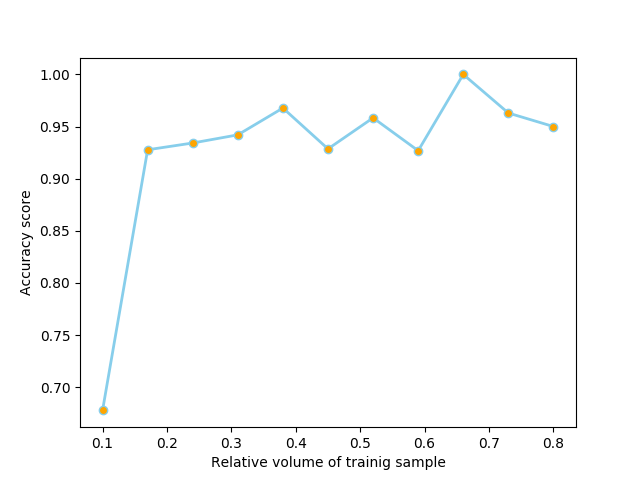
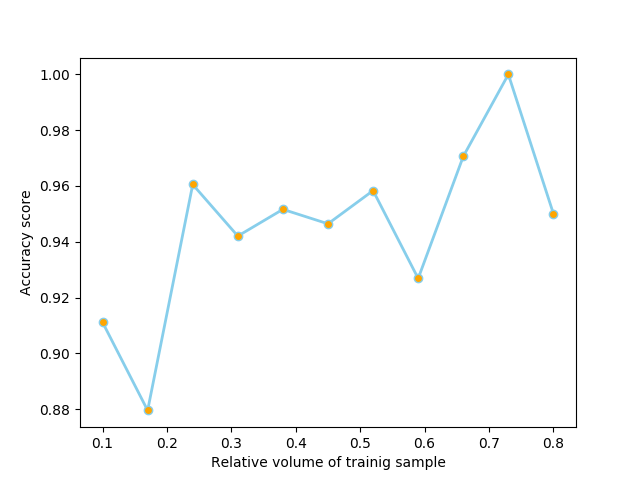
Lab 1: refactor done, lab done, waiting for report...

diff --git a/MACHINE-LEARNING/LABS-progs/labs/src/labs/lab1.py b/MACHINE-LEARNING/LABS-progs/labs/src/labs/lab1.py
@@ -1,54 +1,34 @@
 import tools
 import numpy as np
 import pandas as pd
-from sklearn import preprocessing
 from sklearn.naive_bayes import GaussianNB
-from sklearn.model_selection import train_test_split
-from sklearn.metrics import confusion_matrix
-from sklearn.metrics import accuracy_score
-
-class NaiveBayesLab:
-    """Lab 1"""
-    def __init__(self, data_set):
-        # инициируем классификатор
-        self.clf = GaussianNB()
-        # инициализируем множество элементов
-        self.X = data_set[:, range(len(data_set[0]) - 1)]
-        # инициализируем множество классов
-        self.Y = data_set[:, [-1]].ravel()
-
-    def classification(self, test_train_ratio):
-        # разбиваем набор данных на обучающую и тестовую выборку
-        self.X_train, self.X_test, self.Y_train, self.Y_test =  train_test_split(self.X, self.Y, test_size=test_train_ratio)
-        # процесс обучения
-        self.clf.fit(self.X_train, self.Y_train)
-        # классификация тестовой выборки
-        self.Y_result = self.clf.predict(self.X_test)
-        self.accuracy = accuracy_score(self.Y_test, self.Y_result)
-    
-    def show_result(self):
-        print("Size of train: ", len(self.X_train))
-        print("Size of test: ", len(self.X_test))
-        print("Accuracy: ", self.accuracy)
-
 
 def tic_tac_toe():
-    print("Tic_tac_toe.txt")
-    # задаем строки-образцы для перекодировки
-    tic_tac_fit = ['x', 'o', 'b', 'positive','negative']
-    # чтение выборки данных
-    data_set = tools.read_string_data(tic_tac_fit, 'data/Tic_tac_toe.txt')
-    test = NaiveBayesLab(data_set)
-    accuracy_list = tools.get_accuracy_list(test, 0.2, 0.9, 10)
-    tools.plot_precision(accuracy_list, 'results/NaiveBayes/tic_tac_toe.png')
+    data = tools.MLStructure()
+    data_frame = pd.read_csv('data/Tic_tac_toe.txt', header=None)
+    data.x, data.y = tools.tic_tac_toe_prep_get_X_Y(data_frame)
 
+    data.clf = GaussianNB()
+    accuracy_list = data.get_accuracy_volume_dependency(0.2, 0.9, 10)
+    tools.plot_precision(accuracy_list, 'results/NaiveBayes/tic_tac_toe.png')
+    
+    data.split_data_into_test_train(0.2)
+    data.classify()
+    data.show_stat()
 
 def spam():
-    print("Spambase.data")
-    data_set = np.loadtxt('data/spambase.data', delimiter=',')
-    test = NaiveBayesLab(data_set)
-    accuracy_list = tools.get_accuracy_list(test, 0.2, 0.9, 10)
+    data = tools.MLStructure()
+    data_frame = pd.read_csv('data/spambase.data', header=None)
+    data.x, data.y = tools.spam_get_X_Y(data_frame)
+
+    data.clf = GaussianNB()
+
+    accuracy_list = data.get_accuracy_volume_dependency(0.2, 0.9, 10)
     tools.plot_precision(accuracy_list, 'results/NaiveBayes/spam.png')
+    
+    data.split_data_into_test_train(0.2)
+    data.classify()
+    data.show_stat()
 
 def generate_points():
     data = tools.MLStructure()
@@ -67,16 +47,17 @@ def generate_points():
     data_frame['Y'] = Y
     tools.plot_data_set(data_frame, 'X_1', 'X_2', 'Y', 'results/NaiveBayes/generated.png')
 
-    x = data_frame.drop('Y', axis=1)
-    y = data_frame['Y'].ravel()
+    data.x = data_frame.drop('Y', axis=1)
+    data.y = data_frame['Y']
 
     data.clf = GaussianNB()
-    accuracy_list = tools.get_accuracy_list(data, 0.2, 0.9, 10)
-    # tools.plot_precision(accuracy_list, 'results/NaiveBayes/generated_precision.png')
 
-    # test.classification(0.2)
-    # test.show_result()
-    # print('Confusion matrix: \n', confusion_matrix(test.Y_test, test.Y_result))
+    accuracy_list = data.get_accuracy_volume_dependency(0.2, 0.9, 10)
+    tools.plot_precision(accuracy_list, 'results/NaiveBayes/generated_precision.png')
+
+    data.split_data_into_test_train(0.2)
+    data.classify()
+    data.show_stat()
     
 def titanic():
     data = tools.MLStructure()
@@ -87,26 +68,21 @@ def titanic():
     x_test_set = pd.read_csv('data/titanic/test.csv')
     y_test_set = pd.read_csv('data/titanic/gender_submission.csv')
     data.x_test = tools.titanic_preprocessing(x_test_set)
-    data.y_test = y_test_set['Survived'].ravel()
+    data.y_test = y_test_set['Survived']
 
-    clf = GaussianNB()
-    clf.fit(data.x_train, data.y_train)
-    data.y_result = clf.predict(data.x_test)
-    tools.show_stat(data)
+    data.clf = GaussianNB()
+
+    data.classify()
+    data.show_stat()
     
 def titanic_split():
     data = tools.MLStructure()
     data_frame = pd.read_csv('data/titanic/train.csv')
     data_frame = tools.titanic_preprocessing(data_frame)
-    x, y = tools.titanic_get_train_X_Y(data_frame)
-    data.x_train, data.x_test, data.y_train, data.y_test =  train_test_split(x, y, test_size=0.1)
-    
-    clf = GaussianNB()
-    clf.fit(data.x_train, data.y_train)
-    data.y_result = clf.predict(data.x_test)
-    tools.show_stat(data)
+    data.x, data.y = tools.titanic_get_train_X_Y(data_frame)
 
+    data.clf = GaussianNB()
 
-
-
-
+    data.split_data_into_test_train(0.1)
+    data.classify()
+    data.show_stat()

diff --git a/MACHINE-LEARNING/LABS-progs/labs/src/tools.py b/MACHINE-LEARNING/LABS-progs/labs/src/tools.py
@@ -3,12 +3,12 @@ import pandas as pd
 from sklearn import preprocessing
 from sklearn.metrics import accuracy_score
 from sklearn.metrics import confusion_matrix
+from sklearn.model_selection import train_test_split
 import matplotlib.pyplot as plt
 
-#TODO: x, y in class
 class MLStructure(object):
-    x = None
-    y = None
+    x = None 
+    y = None 
     clf = None
     x_train = None
     y_train = None
@@ -16,34 +16,34 @@ class MLStructure(object):
     y_test = None
     y_result = None
 
-# функция перевода строкового массива элементов выборки в числовой 
-def to_numeric(some_fit, ArrayToEncode):
-    # инциируем средство для перекодировки строк в численный формат
-    le = preprocessing.LabelEncoder()
-    le.fit(some_fit)
-    numeric_array = []
-    for element in ArrayToEncode: 
-        numeric_array.append(le.transform(element))
-    return np.array(numeric_array)
+    def split_data_into_test_train(self, test_ratio):
+        self.x_train, self.x_test, self.y_train, self.y_test =  train_test_split(self.x, self.y, test_size=test_ratio)
 
-def read_string_data(some_fit, path):
-    return to_numeric(some_fit, np.loadtxt(path, dtype='str', delimiter=',')) 
+    def get_accuracy_volume_dependency(self, min_test_ratio, max_test_ratio, step_count):
+        step = (max_test_ratio - min_test_ratio) / step_count
+        accuracy_list = []
+        test_ratio = min_test_ratio
+        while test_ratio <= max_test_ratio:
+            self.split_data_into_test_train(test_ratio)
+            self.classify()
+            accuracy_list.append([1 - test_ratio, accuracy_score(self.y_test, self.y_result)])
+            test_ratio += step
+            test_ratio = round(test_ratio,2)
+        return np.array(accuracy_list)
 
-def get_accuracy_list(data, min_test_ratio, max_test_ratio, step_count):
-    step = (max_test_ratio - min_test_ratio) / step_count
-    accuracy_list = []
-    iterator = min_test_ratio
-    while iterator <= max_test_ratio:
-        data.x_train, data.x_test, data.y_train, data.y_test =  train_test_split(data.x, data.y, test_size=test_train_ratio)
-        data.clf.fit()
-        accuracy_list.append([1 - iterator, clf.accuracy])
-        iterator += step
-        iterator = round(iterator,2)
-    return np.array(accuracy_list)
+    def classify(self):
+        self.clf.fit(self.x_train, self.y_train)
+        self.y_result = self.clf.predict(self.x_test)
+    
+    def show_stat(self):
+        print("Size of train: ", len(self.x_train))
+        print("Size of test: ", len(self.x_test))
+        print("Accuracy: ", accuracy_score(self.y_test, self.y_result))
+        print('Confusion matrix: \n', confusion_matrix(self.y_test, self.y_result))
 
-def plot_precision(points, plot_path):
-    x, y = points.T
-    plt.plot(x, y, marker='o', markerfacecolor='orange', markersize=6, color='skyblue', linewidth=2)
+def plot_precision(accuracy_list, plot_path):
+    test_ratio, accuracy = accuracy_list.T
+    plt.plot(test_ratio, accuracy, marker='o', markerfacecolor='orange', markersize=6, color='skyblue', linewidth=2)
     plt.ylabel('Accuracy score')
     plt.xlabel('Relative volume of trainig sample')
     plt.savefig(plot_path)
@@ -73,16 +73,23 @@ def titanic_preprocessing(input_frame):
     return data_frame
 
 def titanic_get_train_X_Y(input_frame):
-    data_frame = input_frame.copy()
-    Y = data_frame['Survived'].ravel()
-    X = data_frame.drop('Survived', axis=1)
-    return X, Y
+    y = input_frame['Survived']
+    x = input_frame.drop('Survived', axis=1)
+    return x, y
 
-def show_stat(data):
-    print("Size of train: ", len(data.x_train))
-    print("Size of test: ", len(data.x_test))
-    print("Accuracy: ", accuracy_score(data.y_test, data.y_result))
-    print('Confusion matrix: \n', confusion_matrix(data.y_test, data.y_result))
+def spam_get_X_Y(input_frame):
+    y = input_frame[input_frame.columns[len(input_frame.columns) - 1]]
+    x = input_frame.drop(input_frame.columns[len(input_frame.columns) - 1], axis=1)
+    return x, y
+
+def tic_tac_toe_prep_get_X_Y(input_frame):
+    y = input_frame[input_frame.columns[len(input_frame.columns) - 1]]
+    x = input_frame.drop(input_frame.columns[len(input_frame.columns) - 1], axis=1)
+    x = x.replace({'x': 0, 'o': 1, 'b': 2}).astype(int)
+    y = y.map({'positive': 0,'negative': 1}).astype(int)
+    return x, y
+
+
 
 
 

diff --git a/MACHINE-LEARNING/LABS-progs/labs/src/Main.py b/MACHINE-LEARNING/LABS-progs/labs/src/Main.py
@@ -1,3 +1,3 @@
 from labs import lab1
 
-lab1.generate_points()
+lab1.titanic()
